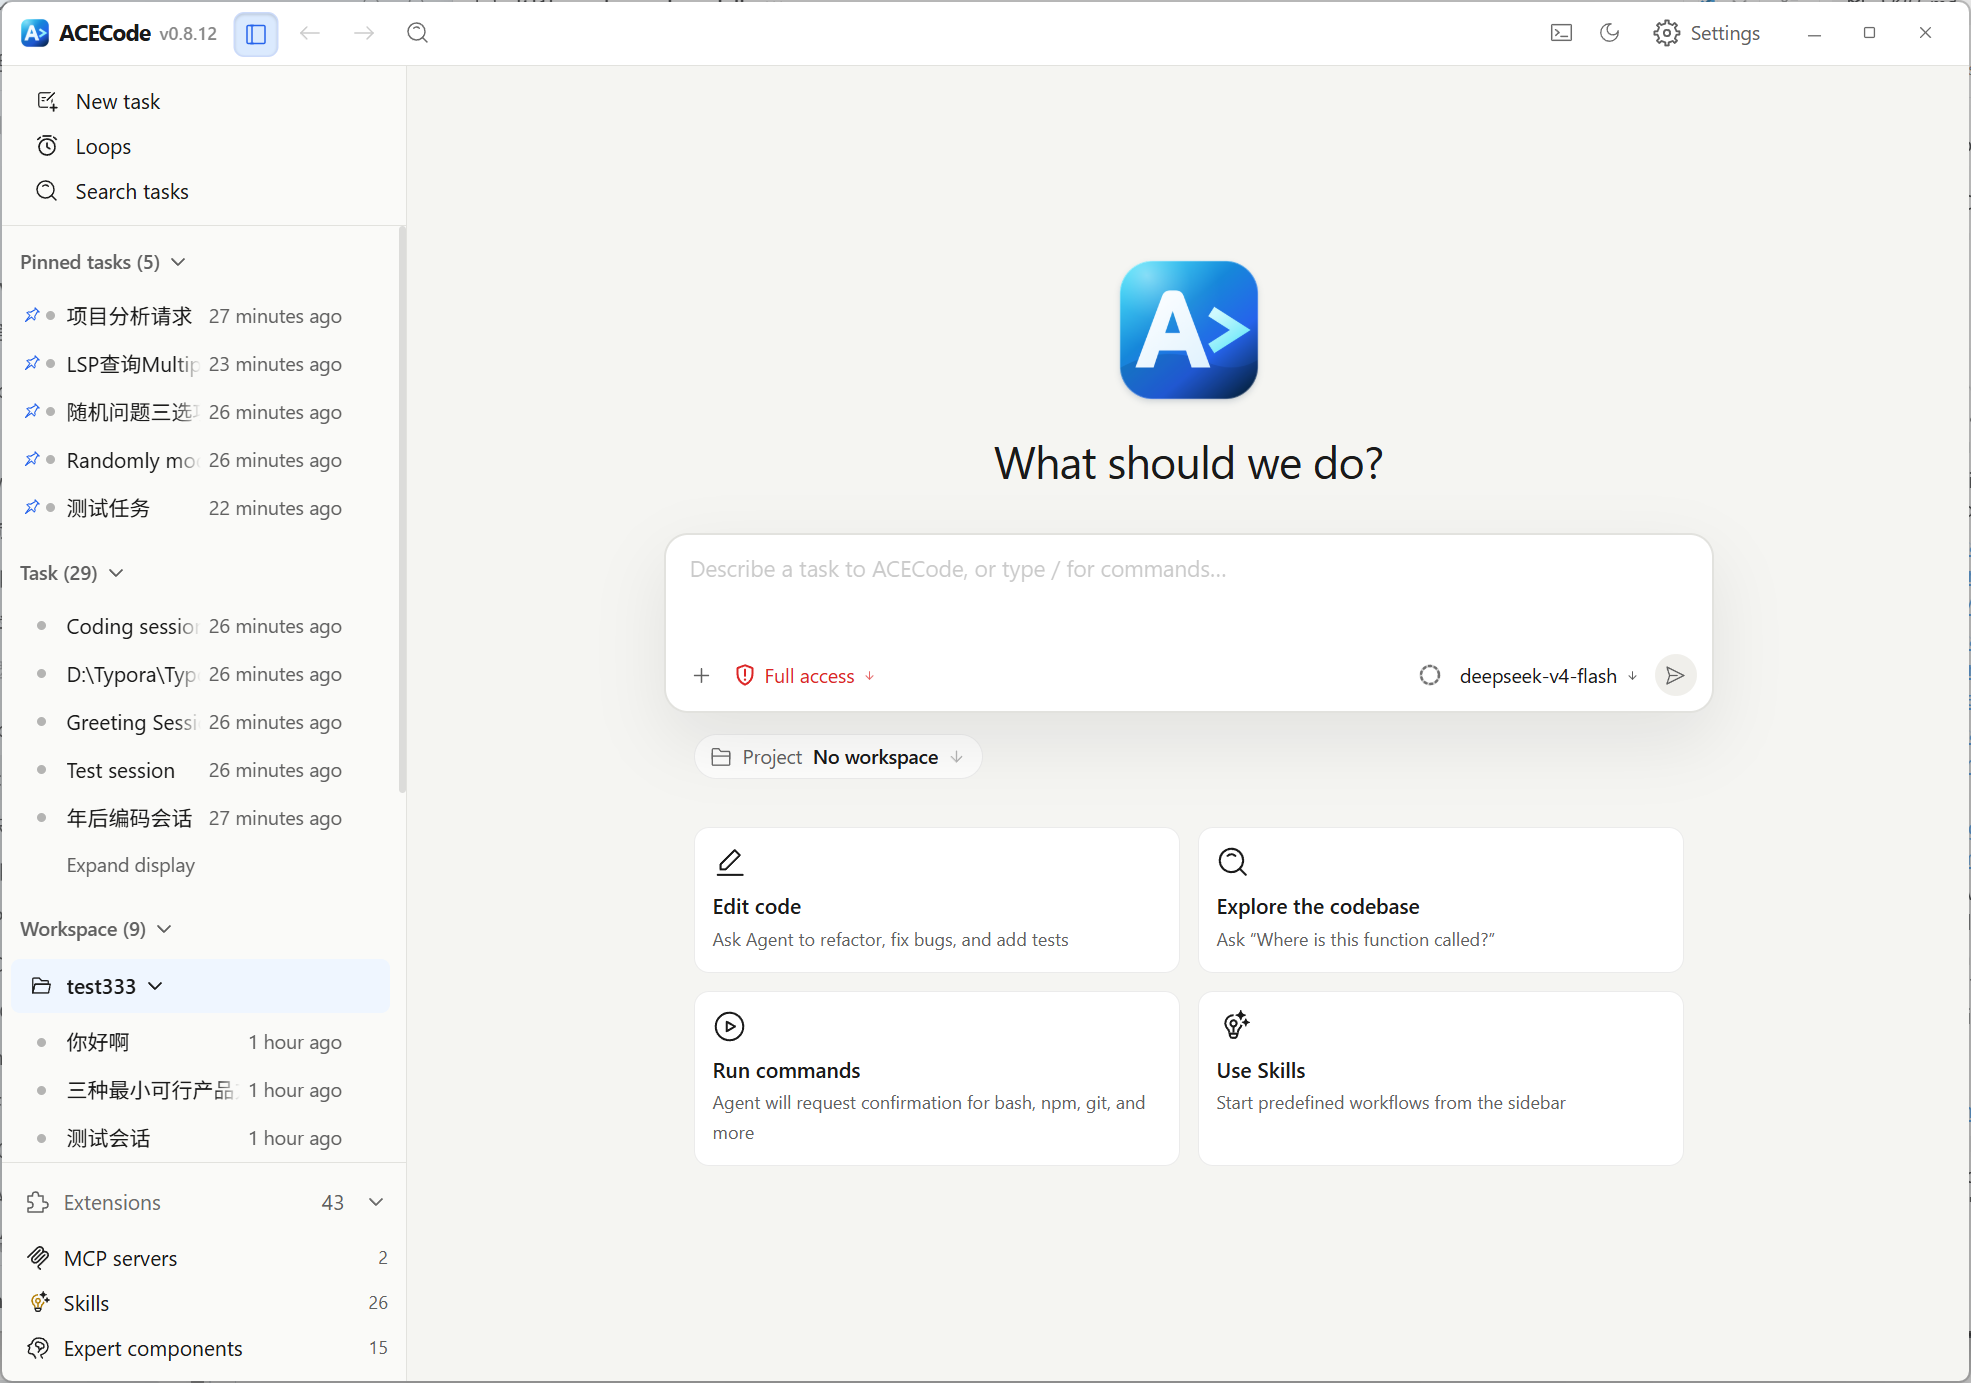
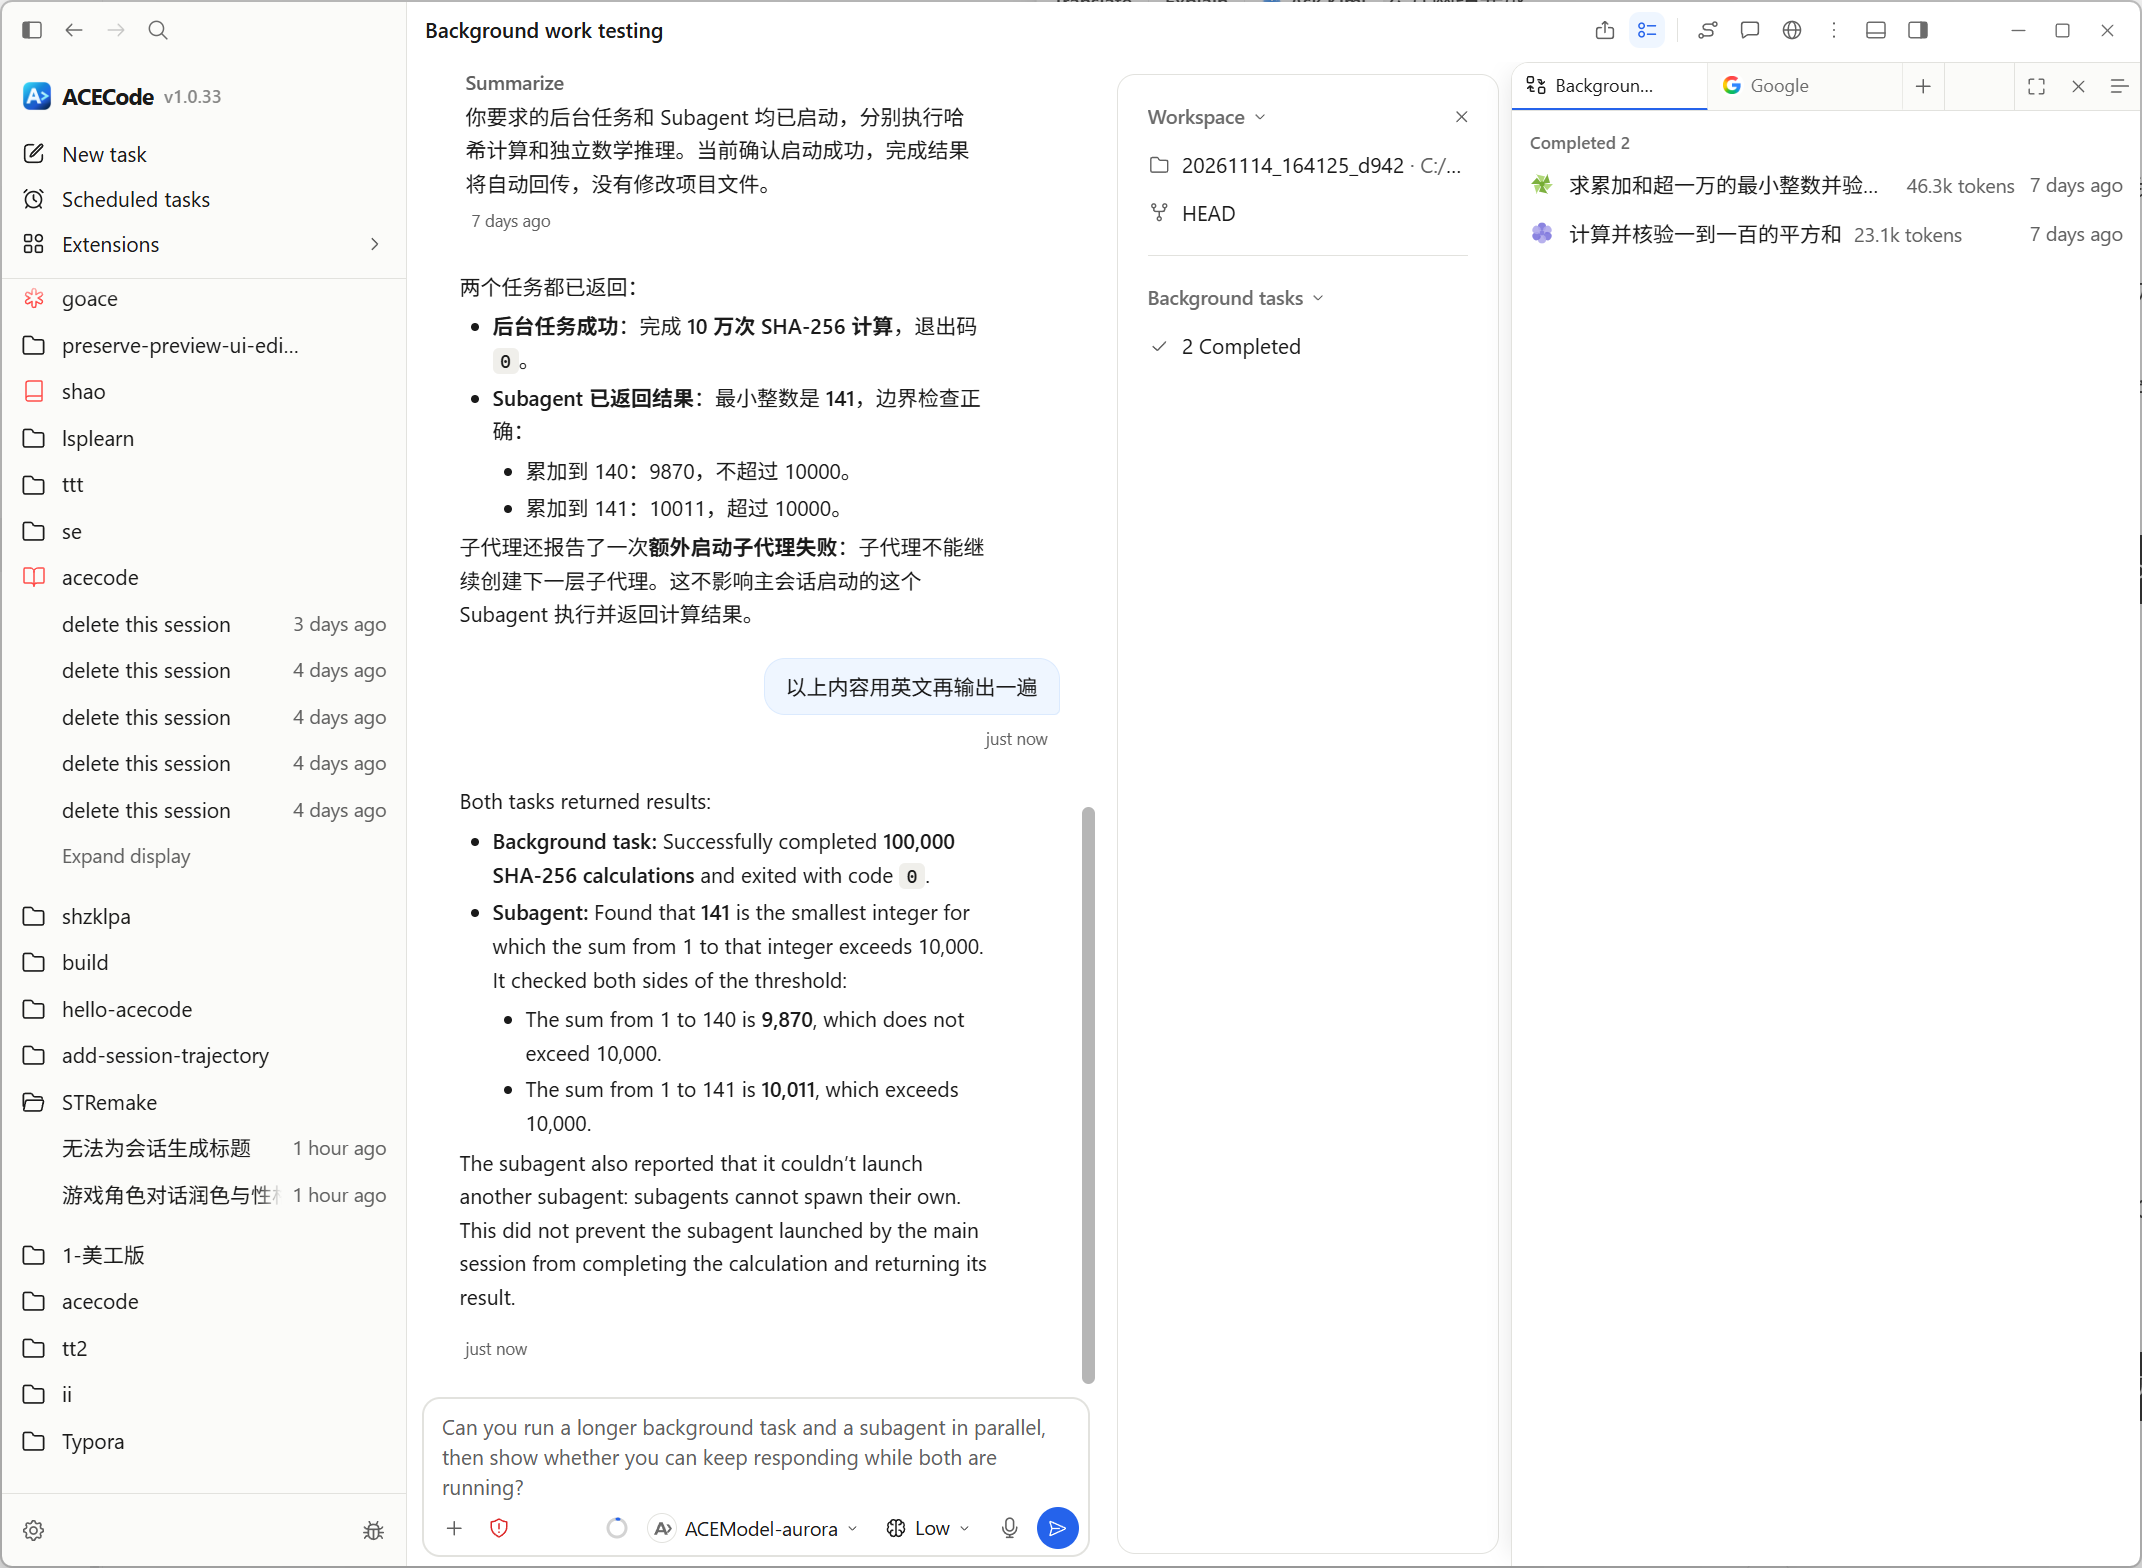
Refresh English and Chinese Desktop screenshots

diff --git a/README.md b/README.md
@@ -36,7 +36,7 @@ ACECode is a repository-aware AI coding agent with two first-class interfaces: a
 
 Choose a workspace, start or revisit tasks, select a model and permission mode, attach context, and follow the agent's work from one window.
 
-![ACECode Desktop home screen showing workspaces, tasks, model selection, and permission controls](assets/readme/acecode-desktop.png)
+![ACECode Desktop showing a conversation and the results of a background task and a subagent](assets/readme/acecode-desktop.png)
 
 ### Terminal TUI
 
